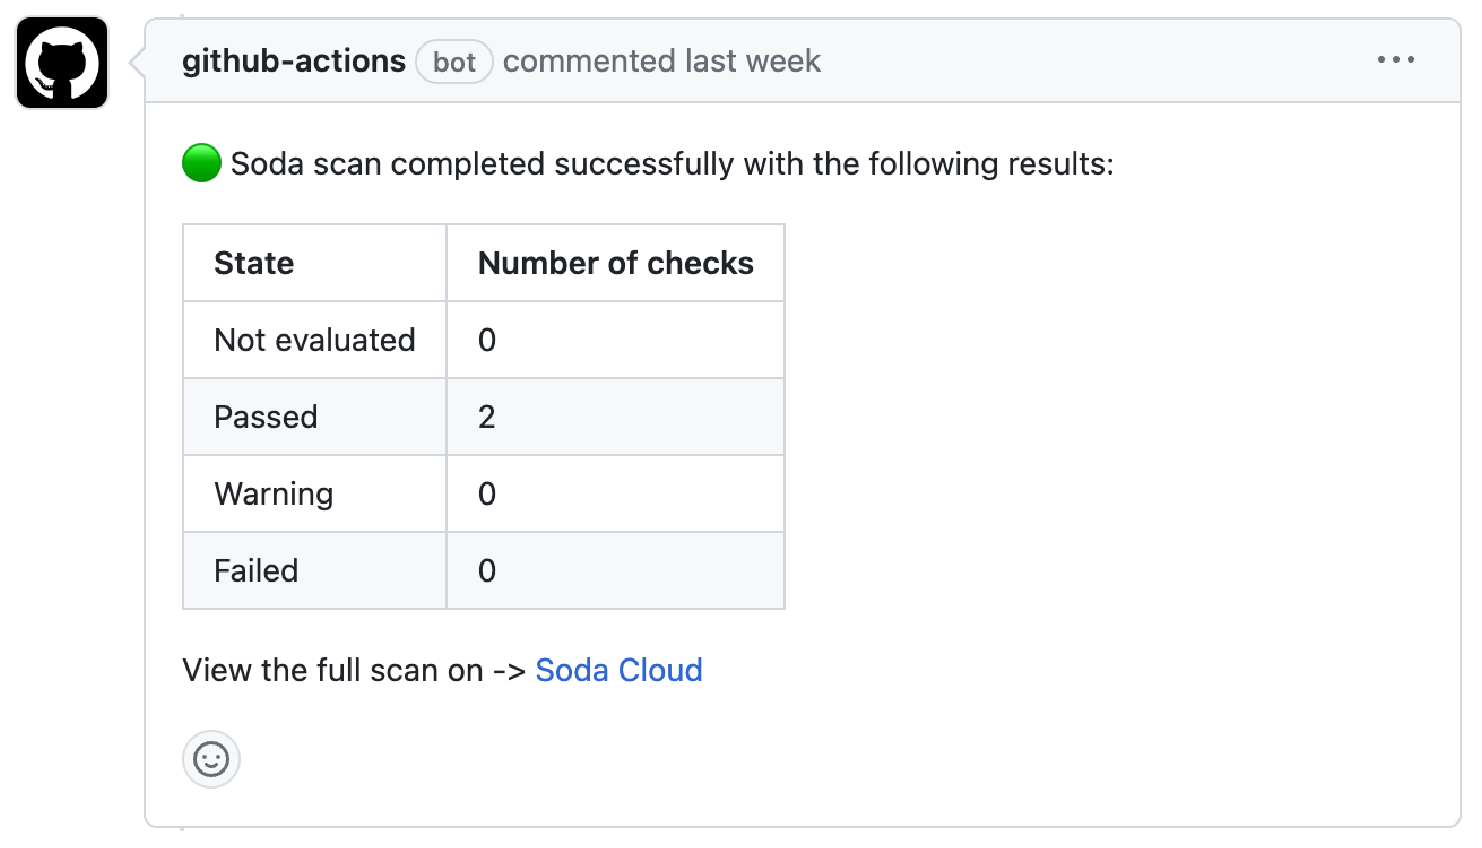
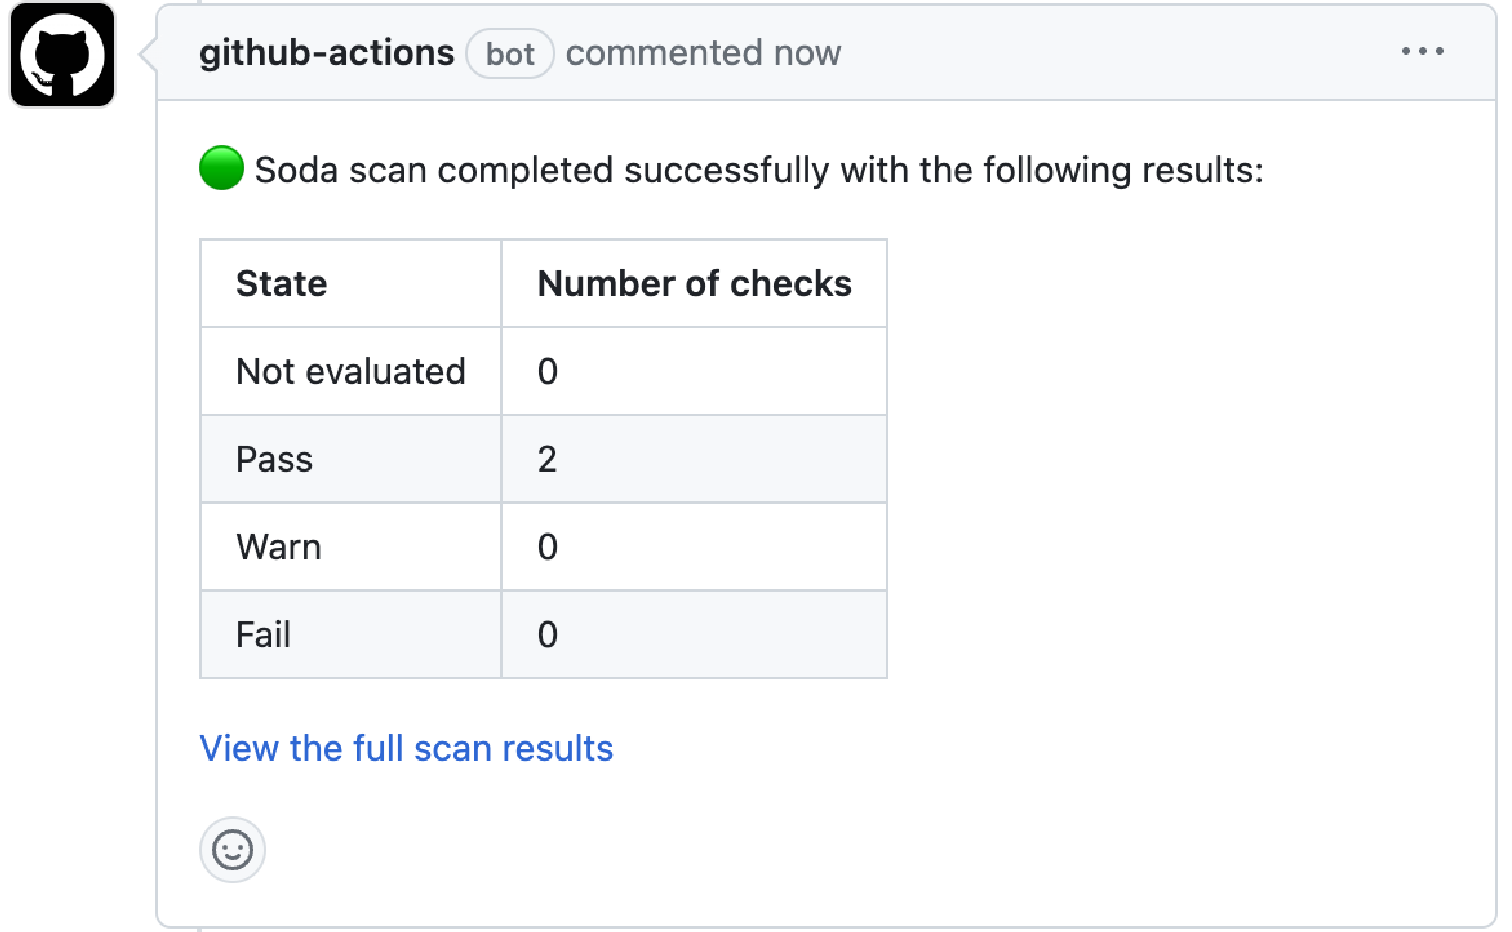
Recalibrate screenshots and snippets.

Changed region(s): [[0.0, 0.0, 0.9933, 1.0], [0.5277, 0.4292, 0.5897, 0.4599]]

diff --git a/soda/integrate-github.md b/soda/integrate-github.md
@@ -37,6 +37,7 @@ jobs:
 ```
 
 [About Soda and the GitHub Action for Soda](#about-soda-and-the-github-action-for-soda)<br />
+&nbsp;&nbsp;&nbsp;&nbsp;[What the Action does](#what-the-action-does)<br />
 [Prerequisites](#prerequisites)<br />
 [Add the Action to a Workflow](#add-the-action-to-a-workflow)<br />
 &nbsp;&nbsp;&nbsp;&nbsp;[Required Action input](#required-action-input)<br />
@@ -52,11 +53,24 @@ For example, in a repository in which are adding a transformation or making chan
 
 Where the scan results indicate an issue with data quality, Soda notifies you in both a PR comment and by email so that you can investigate and address any issues before merging your PR into production.
 
-![github-comment](/assets/images/github-comment.png){:height="550px" width="550px"}
+![github-comment](/assets/images/github-comment.png){:height="500px" width="500px"}
 
-Further, you can access a full report of the data quality scan results, including scan logs, in your Soda Cloud account via a link in the PR comment. 
+Further, you can access a full report of the data quality scan results, including scan logs, in your Soda Cloud account via the link in the PR comment. 
 
 ![scan-report](/assets/images/scan-report.png){:height="700px" width="700px"}
+
+### What the Action does
+
+Briefly, the action completes the following tasks:
+1. Checks to validate that the required Action input values are set.
+2. Builds a Docker image with a specific Soda Library version for the base image.
+3. Expands the environment variables to pass to the Docker run command as these variables can be configured in the workflow file and contain secrets.
+4. Runs the built image to trigger the Soda scan for data quality.
+5. Converts the Soda Library scan results to a markdown table using newest hash from 1.0.0 version.
+6. Creates a pull request comment.
+7. Posts any additional messages to make it clear whether or not the scan failed.
+
+See the public <a href="https://github.com/sodadata/soda-github-action" target="_blank">soda-github-action</a> repository for more detail. 
 
 
 ## Prerequisites
@@ -64,39 +78,39 @@ Further, you can access a full report of the data quality scan results, includin
 * You have a GitHub account, and are familiar with using <a href="https://docs.github.com/en/actions/using-workflows" target="_blank">GitHub Workflows</a> and <a href="https://docs.github.com/en/actions" target="_blank">Actions</a>.
 * You have access to the data source login credentials that Soda needs to access your data to run a scan for quality.
 
-
-
 ## Add the Action to a Workflow
 
-1. If you have not already done so, <a href="https://cloud.soda.io/signup" target="_blank">create a Soda Cloud account</a>, which is free for a 45-day trial. You need a Soda Cloud account to be able to run scans. 
+1. If you have not already done so, <a href="https://cloud.soda.io/signup" target="_blank">create a Soda Cloud account</a>, which is free for a 45-day trial. <br />
+    <details>
+        <summary style="color:#00BC7E">Why do I need a Soda Cloud account?</summary>
+    To validate your account licence or free trial, the Soda Library Docker image that the GitHub Action uses to execute scans must communicate with a Soda Cloud account via API keys. <br />Create <a href="https://go.soda.io/api-keys" target="_blank">new API keys</a> in your Soda Cloud account, then use them to configure the connection between the Soda Library Docker image and your account in step 4 of this procedure. <br /><br />
+    </details>
 2. In the GitHub repository in which you wish to include data quality scans in a workflow, create a folder named `soda` for the configuration files that Soda requires as input to run a scan. 
 3. In this folder, create two files:
 * a `configuration.yml` file to store the connection configuration Soda needs to connect to your data source and your Soda Cloud account.
 * a `checks.yml` file to store the SodaCL checks you wish to execute to test for data quality. A check is a test that Soda executes when it scans a dataset in your data source.
-4. Follow the the [instructions]({% link soda-library/configure.md %}) to add connection configuration details for your data source and Soda Cloud account to the `configuration.yml`, and add two checks for data quality for a dataset to your `checks.yml`. Examples of each follow. <br />
+4. Follow the the [instructions]({% link soda-library/configure.md %}) to add connection configuration details for both your data source and Soda Cloud account to the `configuration.yml`, and add checks for data quality for a dataset to your `checks.yml`. Examples of each follow. <br />
 ```yaml
 # configuration.yml file
-data_source snowflake1:
-  type: snowflake
-  account: sp19295.eu-west-1
-  username: ${SNOWFLAKE_USERNAME}
-  database: my_database
+data_source aws_postgres_retail:
+  type: postgres
+  connection:
+    host: soda-demo
+    username: ${POSTGRES_USERNAME}
+    password: ${POSTGRES_PASSWORD}
+    database: postgres
   schema: public
-  password: ${SNOWFLAKE_PASSWORD}
+# Refer to https://go.soda.io/api-keys
 soda_cloud:
   host: cloud.us.soda.io
   api_key_id: ${SODA_CLOUD_API_KEY}
-  api_key_secret: ${SODA_CLOUD_API_SECRET}
+  api_key_secret: ${SODA_CLOUD_API_KEY}
 ```
 ```yaml
 # checks.yml file
-checks for my_dataset_name:
-  - row_count > 0:
-          name: Dataset contains data
-  - schema:
-          warn:
-            when schema changes: any
-          name: No changes to schema
+checks for retail_orders:
+  - row_count > 0
+  - missing_count(order_quantity) < 3
 ```
 5. In the `.github/workflows` folder in your GitHub repository, open an existing worfklow or <a href="https://docs.github.com/en/actions/using-workflows/about-workflows#create-an-example-workflow" target="_blank">create a new workflow</a> file. Determine where you wish to add a Soda scan for data quality in your workflow. Refer to [Test data in development]({% link soda/quick-start-dev.md %}) for a recommended approach.
 6. Access the GitHub Marketplace to access the <a href="https://github.com/marketplace/actions/soda-library-action" target="_blank">Soda GitHub Action</a>. Click **Use latest version** to copy the code snippet for the Action.
@@ -106,46 +120,31 @@ checks for my_dataset_name:
      uses: sodadata/soda-github-action@v1.0.0
      with:
        soda_library_version: v1.0.4
-       data_source: snowflake
+       data_source: aws_postgres_retail
        configuration: .soda/configuration.yaml
        checks: .soda/checks.yaml
 ```
-8. Optionally, add a list of variables for sensitive login credentials and keys, as in the following example. Read more about <a href="https://docs.github.com/en/actions/security-guides/encrypted-secrets" target="_blank">GitHub encrypted secrets</a>.
+8. Following best practice, add a list of variables for sensitive login credentials and keys, as in the following example. Read more about <a href="https://docs.github.com/en/actions/security-guides/encrypted-secrets" target="_blank">GitHub encrypted secrets</a>.
 ```yaml
 - name: Perform Soda Scan
      uses: sodadata/soda-github-action@v1
      env:
        SODA_CLOUD_API_KEY: {% raw %}${{ secrets.SODA_CLOUD_API_KEY }}{% endraw %}
        SODA_CLOUD_API_SECRET: {% raw %}${{ secrets.SODA_CLOUD_API_SECRET }}{% endraw %}
-       SNOWFLAKE_USERNAME: {% raw %}${{ secrets.SNOWFLAKE_USERNAME }}{% endraw %}
-       SNOWFLAKE_PASSWORD: {% raw %}${{ secrets.SNOWFLAKE_PASSWORD }}{% endraw %}
+       POSTGRES_USERNAME: {% raw %}${{ secrets.POSTGRES_USERNAME }}{% endraw %}
+       POSTGRES_PASSWORD: {% raw %}${{ secrets.POSTGRES_PASSWORD }}{% endraw %}
      with:
        soda_library_version: v1.0.4
        data_source: snowflake1
        configuration: .soda/configuration.yaml
        checks: .soda/checks.yaml
 ```
-9. Save the changes to your workflow file, then test the action's functionality by triggering the event that workflow job in GitHub, such as creating a pull request. To monitor the progress of the workflow, access the **Actions** tab in your GitHub repository to find the run in **Workflow Runs**. 
-10. When the job completes, navigate to the pull request's **Conversation** tab to view the comment the Action posted via the github-action bot. To examine the full scan report and troubleshoot any issues, click the link to Soda Cloud in the comment, then click **View Logs**. Use [Troubleshoot SocaCL]({% link soda-cl/troubleshoot.md %}) for help diagnosing issues.
+9. Save the changes to your workflow file, then test the action's functionality by triggering the event that workflow job in GitHub, such as creating a pull request. <br />To monitor the progress of the workflow, access the **Actions** tab in your GitHub repository, select the workflow in which you added the GitHub Action for Soda, then find the run in the list of **Workflow Runs**. 
+10. When the job completes, navigate to the pull request's **Conversation** tab to view the comment the Action posted via the github-action bot. To examine the full scan report and troubleshoot any issues, click the link to **View the full scan results** in the comment, then click **View Logs**. Use [Troubleshoot SocaCL]({% link soda-cl/troubleshoot.md %}) for help diagnosing issues with SodaCL checks.
 
 **Next:**
 * Add more SodaCL checks to your `checks.yml` file to validate data according to your own use cases and requirements. Refer to [SodaCL]({% link soda-cl/soda-cl-overview.md %}) reference documentation, and the [SodaCL tutorial]({% link soda/quick-start-sodacl.md %}).
-* Follow the guide for [Test data during development]({% link soda/quick-start-dev.md %}) for more insight into a use case for the GitHub Action for Soda.x
-
-<details>
-    <summary style="color:#00BC7E">What does the GitHub Action do?</summary>
-To summarize, the action completes the following tasks:
- <ol>
-   <li>Checks to validate that the required Action input values are set.</li>
-   <li>Builds a Docker image with a specific Soda Library version for the base image.</li>
-   <li>Expands the environment variables to pass to the Docker run command as these variables can be configured in the workflow file and contain secrets.</li>
-   <li>Runs the built image to trigger the Soda scan for data quality.</li>
-   <li>Converts the Soda Library scan results to a markdown table using newest hash from 1.0.0 version.</li>
-   <li>Creates the pull request comment.</li>
-   <li>Posts any additional messages to make it clear whether or not the scan failed.</li>
-  </ol>
-See the public <a href="https://github.com/sodadata/soda-github-action" target="_blank">soda-github-action</a> repository for more detail. <br />
-</details>
+* Follow the guide for [Test data during development]({% link soda/quick-start-dev.md %}) for more insight into a use case for the GitHub Action for Soda.
 
 <br />
 
@@ -164,8 +163,6 @@ See the public <a href="https://github.com/sodadata/soda-github-action" target="
 * Be aware that for self-hosted runners in GitHub:
   * Windows runners are not supported, including the use of official Windows-based images such as windows-latest
   * MacOS runners require installation of Docker because macos-latest does not come with Docker pre-installed.
-* The GitHub Action for Soda is designed to overwrite the comment it adds to your PR to indicate the status of the latest scan. Expect to see only ever see one comment displaying the output status of the latest data quality scan.
-* Note that GitHub PR comments have a 4-byte unicode character limit of 65,536. If the GitHub Action tries to post a comment that exceeds this limit, the job completion may be impacted.
 
 ## Go further
 

diff --git a/soda-cloud/api-keys.md b/soda-cloud/api-keys.md
@@ -11,7 +11,7 @@ parent: Soda Cloud
 Soda Cloud uses API keys to securely communicate with other entities such as Soda Library and Soda Agents, and to provide secure access to metadata in Soda Cloud via the Reporting API. 
 
 There are two sets of API keys that you can generage and use with Soda Cloud:
-* API keys for communicating with **Soda Library**, and via the **Reporting API**
+* API keys for communicating with **Soda Library**, the **Reporting API**, and the Soda Library Docker image that the **GitHub Action for Soda** uses
 * API keys for communicating with a **Soda Agent**
 
 Note that you can use other authentication methods to access Soda Cloud metadata via the Reporting API such as HTTPBasic authentication with username and password, or authentication using tokens; use API keys to authenticate access if your organization employs Single Sign On (SSO) to access Soda Cloud.

diff --git a/soda/new-documentation.md b/soda/new-documentation.md
@@ -9,6 +9,9 @@ parent: Reference
 
 <br />
 
+#### August 10, 2023
+* Published new documentation for the [GitHub Action for Soda]({% link soda/integrate-github.md %}).
+
 #### July 26, 2023
 * Added [release notes]({% link release-notes/soda-library.md %}) documentation for Soda Library 1.0.5.
 * Added detail to [schema check]({% link soda-cl/schema.md %}) documentation for new `schema_name` parameter.
